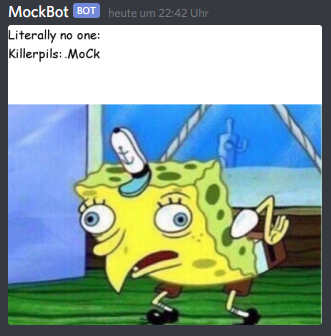
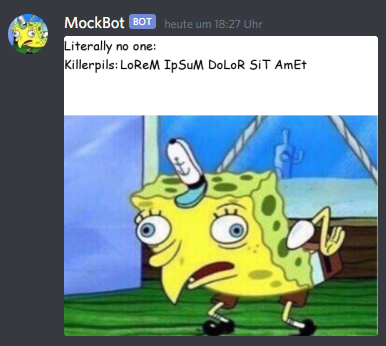
improve behaviour on image mock and large texts

diff --git a/lib/sponge_module.py b/lib/sponge_module.py
@@ -31,9 +31,8 @@ async def perform_sponge(message, res_dir, sp_source):
 
     else:
         isImage = False
-
-        # make every second letter upper
-        # make every other second lower
+        # alternate the case of the content
+        # perform the conversion over entire string
         upper = message.content.upper()
         lower = message.content.lower()
         msg = ''
@@ -58,79 +57,76 @@ async def perform_sponge(message, res_dir, sp_source):
     draw = ImageDraw.Draw(img_sp)
 
     # get size of the username on the image
-    name_width = 0
-    for c in name:
-        name_width += font_type.getsize(c)[0]
+
+    msg_width = 0
+    msg_list = []
+
+    # add the fixed text (same for image and text)
+    msg_list.append('Literally no one:')
+    msg_list.append(name + ': ')
+
+    # only get size of name, as this needs to be expanded
 
 
-    msg_1 = msg_2 = msg_3 = ''
-    # insert linebreak into message, if needed
-    # break into max 3 lines, as there is no more space
-    if (not isImage):                
+    name_offset = 0
+    for c in msg_list[1]:
+        name_offset += font_type.getsize(c)[0]
+
+
+    # images do not have further text
+    msg_width = name_offset
+    if not isImage:
         img_width, _ = img_sp.size
-        msg_width = 0
+
         for c in msg:
+            # keep margin to the right
+            if msg_width > (img_width-8):
+                msg_width = name_offset
+                msg_list.append('')
+
+            msg_list[-1] += c
             msg_width += font_type.getsize(c)[0]
-            if msg_width <= img_width-8-name_width:
-                msg_1 += c
-            elif msg_width <= 2*(img_width-8-name_width):
-                msg_2 += c                    
-            else:
-                msg_3 += c
-
-    # write first line and name
-    # draw for image and text
-    draw.text(
-        xy = (0,0),
-        text='Literally no one:',
-        fill=(0,0,0),
-        font=font_type
-    )
-    draw.text(
-        xy=(0,30),
-        text=name + ':',
-        fill=(0,0,0),
-        font=font_type,
-    )
 
 
-    if(not isImage):
-        # get length of message
-        text_width_raw = 0
-        for c in msg:
-            text_width_raw += font_type.getsize(c)[0]
 
-        # print text onto image
+    for idx, line in enumerate(msg_list):
+        # first two lines have no left margin
+        x_off = 0 if idx < 2 else name_offset
+
         draw.text(
-            xy=(name_width + 8, 30),
-            text=msg_1,
-            fill=(0,0,0),
-            font=font_type,
+            xy = (x_off, idx*30),
+            text = line,
+            fill = (0,0,0),
+            font=font_type
         )
 
-        # draw 2nd line, will be empty if not needed
-        draw.text(
-            xy=(name_width + 8, 60),
-            text=msg_2,
-            fill=(0,0,0),
-            font=font_type,
-        )
 
-        # draw 3rd line, if needed
-        draw.text(
-            xy=(name_width + 8, 90),
-            text=msg_3,
-            fill=(0,0,0),
-            font=font_type,
-        )
+    if(isImage):
+        # the image is spanning vertical over title and name column
+        # the width of both must be known
 
-    elif(isImage==1):
-        img_width, _ = img_sp.size
+        title_offset = 0
+        for c in msg_list[0]:
+            title_offset += font_type.getsize(c)[0]
+
+        x_offset = title_offset if title_offset > name_offset else name_offset
+        offset = x_offset + 10, 10 # top, left margin 10
 
         mock_image = Image.open(src_image_buff)
-                    
-        offset = int(img_width/2), 10
-        size = img_width-offset[0], 100
+
+        img_width, _ = img_sp.size
+        mock_width, mock_height = mock_image.size
+
+        # get the maximum width (either mocked image or max. space usage)
+        allowed_width = img_width - offset[0] - 10 # right margin of 10
+        eff_width = allowed_width if allowed_width < mock_width else mock_width
+
+
+        allowed_height = 110 # space is 125, but top margin is 10, bottom margin is 5
+        eff_height = allowed_height if allowed_height < mock_height else mock_height
+
+
+        size = eff_width, eff_height
         mock_image.thumbnail(size, Image.ANTIALIAS)
 
         img_sp.paste(mock_image, offset)

diff --git a/README.md b/README.md
@@ -9,6 +9,8 @@ Key features:
 In contrast to the 'competition' this bot uses the correct image for the meme. It does NOT only send plain text when using the commands.
 
 
+This bot is a subset of the bigger [ModBot](https://top.gg/bot/602236567574020133)
+
 ![here](readme_example.png)
 
 
